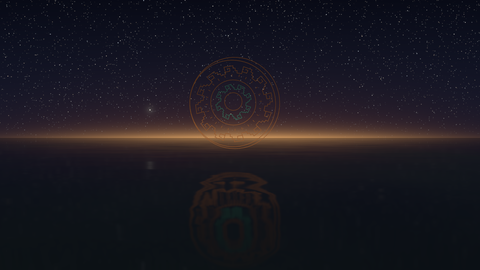
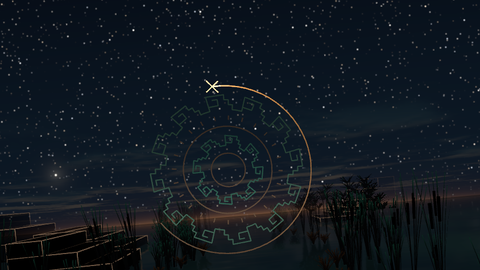
library: mid_glyphs arrives as an event: when presence rises, each downbeat starts one more ring from the inside out, a bright ember head with a small spark runs once round and leaves the line behind it, step frets laid segment by segment, the head fades to the rim light when the ring closes, and af
generated with Claude Code

diff --git a/library/README.md b/library/README.md
@@ -1217,7 +1217,29 @@ copper. Each ring turns slowly in its own plane, every second one the other way.
 lines only, lit from behind by the band: brightest where a ring crosses the horizon. This is the
 valley's counterpart to the glider, the thing the eye follows.
 
-The rings open in a quiet stretch and close on the drop. The stage's swell opens them: each ring
+**Arrival.** When `presence` rises past 0.25, the next downbeat starts the innermost ring, and each following downbeat starts the
+next ring outwards. A bright ember head runs once round the ring within its bar and leaves the
+line behind it. The step frets are laid segment by segment. When a ring closes, its head fades
+to the ring's rim light. After the seventh ring all rings brighten once and settle over the eighth
+bar. The arrival takes `arrive_bars` (8) bars, however quickly `presence` rose.
+
+**Leaving.** When `presence` falls past 0.5, the rings fold flat and dim, from the outside in, over
+`leave_bars` (2) bars. An arrival cut short stops where it is and folds what it has drawn. When
+`presence` rises again during a leaving, rings still partly there unfold, and the rings already
+gone are drawn again, one per bar.
+
+**Seek.** After a seek or any other jump in the bars, rings with `presence` on show whole at once,
+with no arrival. If `presence` is rising at that moment, the rings arrive. To watch an arrival, seek
+to a moment before `presence` rises.
+
+**In a slot.** Keep the rings cooking while `presence` is 0: give their `geo.merge` `show` input 1
+for this element. A chain that `show` stops vanishes at once, without its leaving. It may also
+compile too late to see `presence` rise. Rings at `presence` 0 draw nothing and cost about
+0.35 ms per frame (CPU, 1920x1080).
+`chan.beat_grid` must feed `bus`: the arrival reads `bar_index` and `bar` from it.
+
+The rings open in a quiet stretch and close on the drop, also during an arrival or a leaving:
+opening and closing move whatever is drawn so far. The stage's swell opens them: each ring
 grows, steps forwards or back and tilts about an axis of its own, so the flat glyph unfolds into
 a cage of rings. A drop shuts them within a beat or so, and they stay shut for a few seconds.
 The rings grow brighter as they open, towards `dawn` 1 and for a moment after a drop. Each beat
@@ -1225,7 +1247,9 @@ adds a small pulse.
 
 - In: `bus`, `lane`, `pose` (the stage's: `swell`, `dawn`, `height` and `far` come from it).
   Out: `out` (into the stage's `mid`).
-- Params: `presence` (towards 0 the rings draw back from the outside in, each around its turn),
+- Params: `presence` (rising past 0.25 the rings arrive, falling past 0.5 they leave),
+  `arrive_bars` (bars an arrival takes, 8: a ring per eighth, the last eighth to settle; with 4
+  each ring takes half a bar), `leave_bars` (bars the rings take to fold away, 2),
   `open` (opens the rings at least this far, whatever the swell: for a still or a hand edit),
   `open_at` and `open_full` (the swell where the rings begin to open and where they are fully
   open: 0.15 and 0.6), `size` (1: the outer ring is 3.2 m across), `at` (metres ahead, 9),
